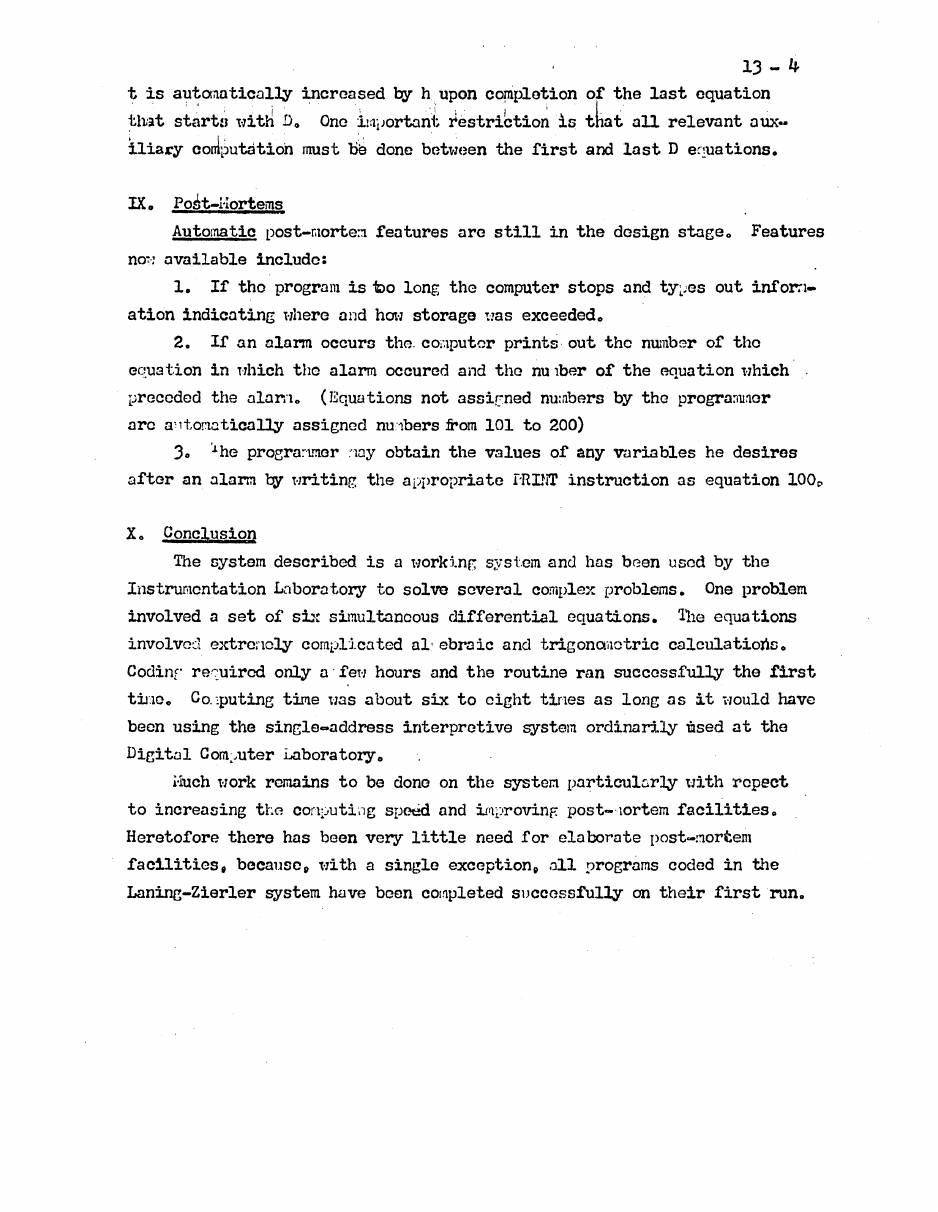
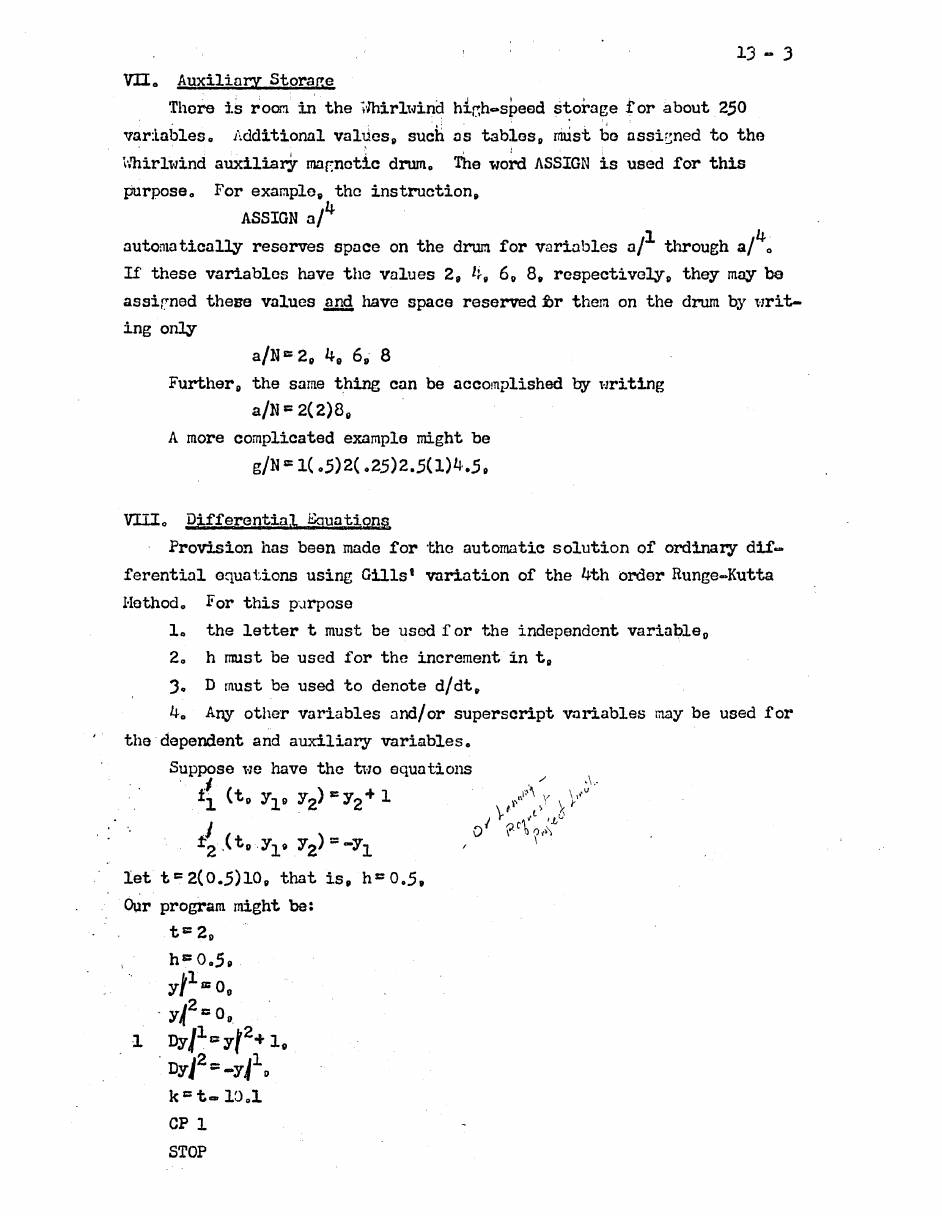
docs/scans: the summer-session pages are 13-3 and 13-4, not 13-2 and 13-3

Changed region(s): [[0.1237, 0.0305, 0.8657, 0.9769]]

diff --git a/docs/scans/README.md b/docs/scans/README.md
@@ -13,7 +13,7 @@ for reference. Page numbers are the documents' own.
 | `e364-p18-differential-equations.jpg` | E-364 p. 18 | the D equations and their example |
 | `e364-p19-auxiliary-computation.jpg` | E-364 p. 19 | the change that "would appear to be innocuous" |
 | `e364-p21-temporary-restrictions.jpg` | E-364 p. 21 | Temporary Rules and Restrictions: "exhaustive tests have not been made" |
-| `summer-1954-13-2.jpg`, `summer-1954-13-3.jpg` | MIT Summer Session 1954, lecture 13 | an independent account, with its own copy of the D-equation program |
+| `summer-1954-13-3.jpg`, `summer-1954-13-4.jpg` | MIT Summer Session 1954, lecture 13, pp. 13-3 and 13-4 | an independent account, with its own copy of the D-equation program (p. 13-3) |
 | `knuth-p56-tpk.jpg`, `knuth-p57-tpk.jpg` | Knuth and Trabb Pardo, pp. 56-57 | TPK written in the Laning and Zierler system |
 | `knuth-p58-runge-kutta.jpg` | p. 58 | "a reduction of computing speed of the order of magnitude of ten to one" |
 | `knuth-p59-laning-1976.jpg` | p. 59 | Laning in 1976: the lead-pursuit program, and "I lived in fear" |
